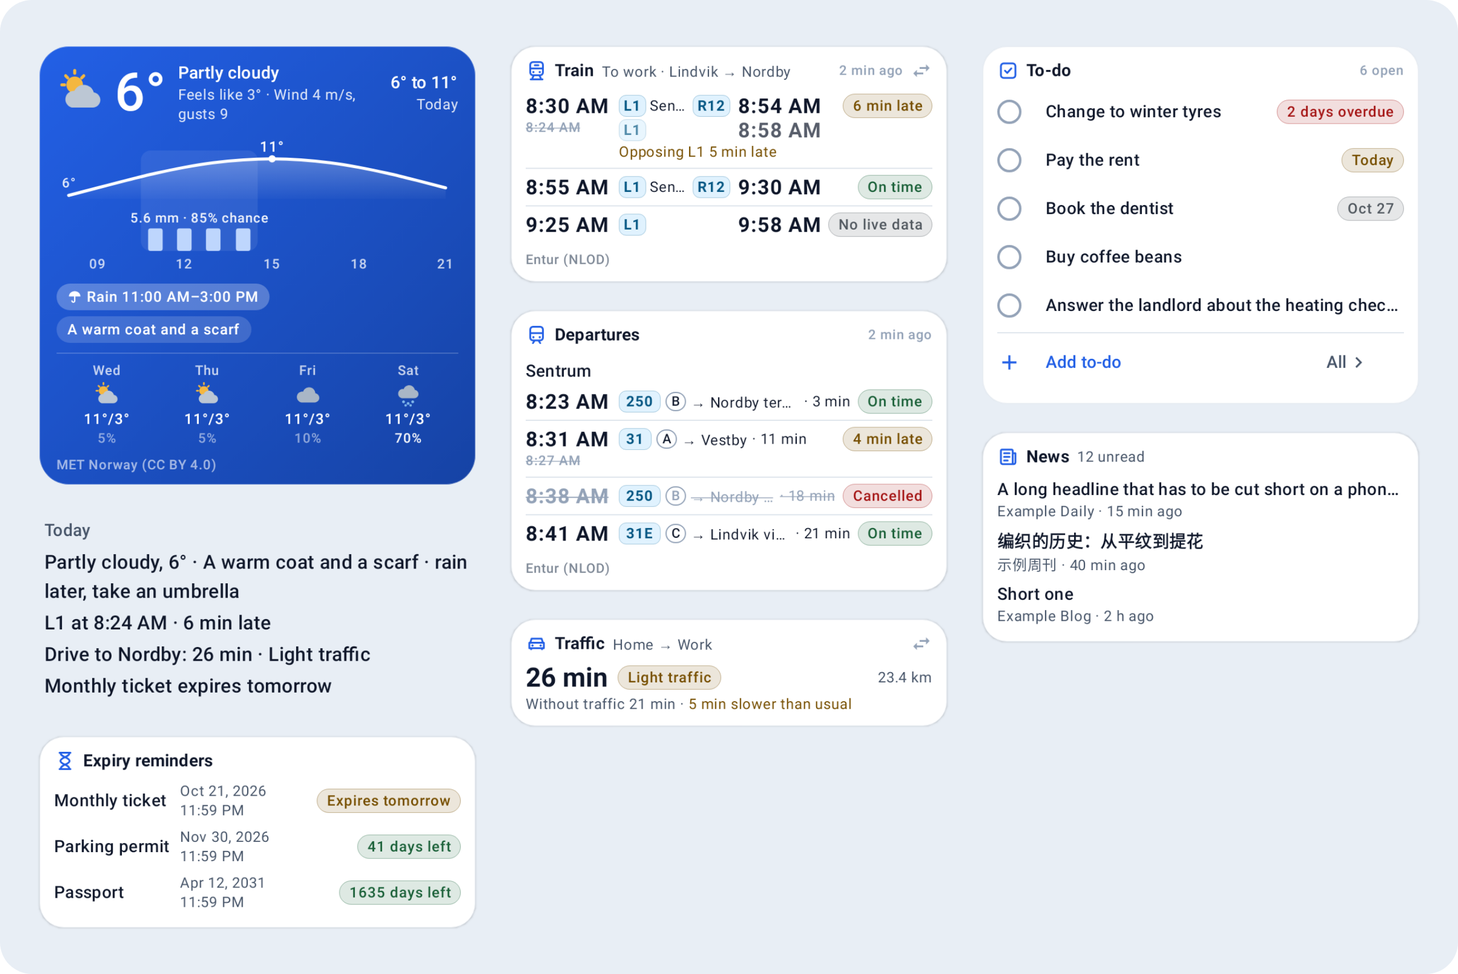
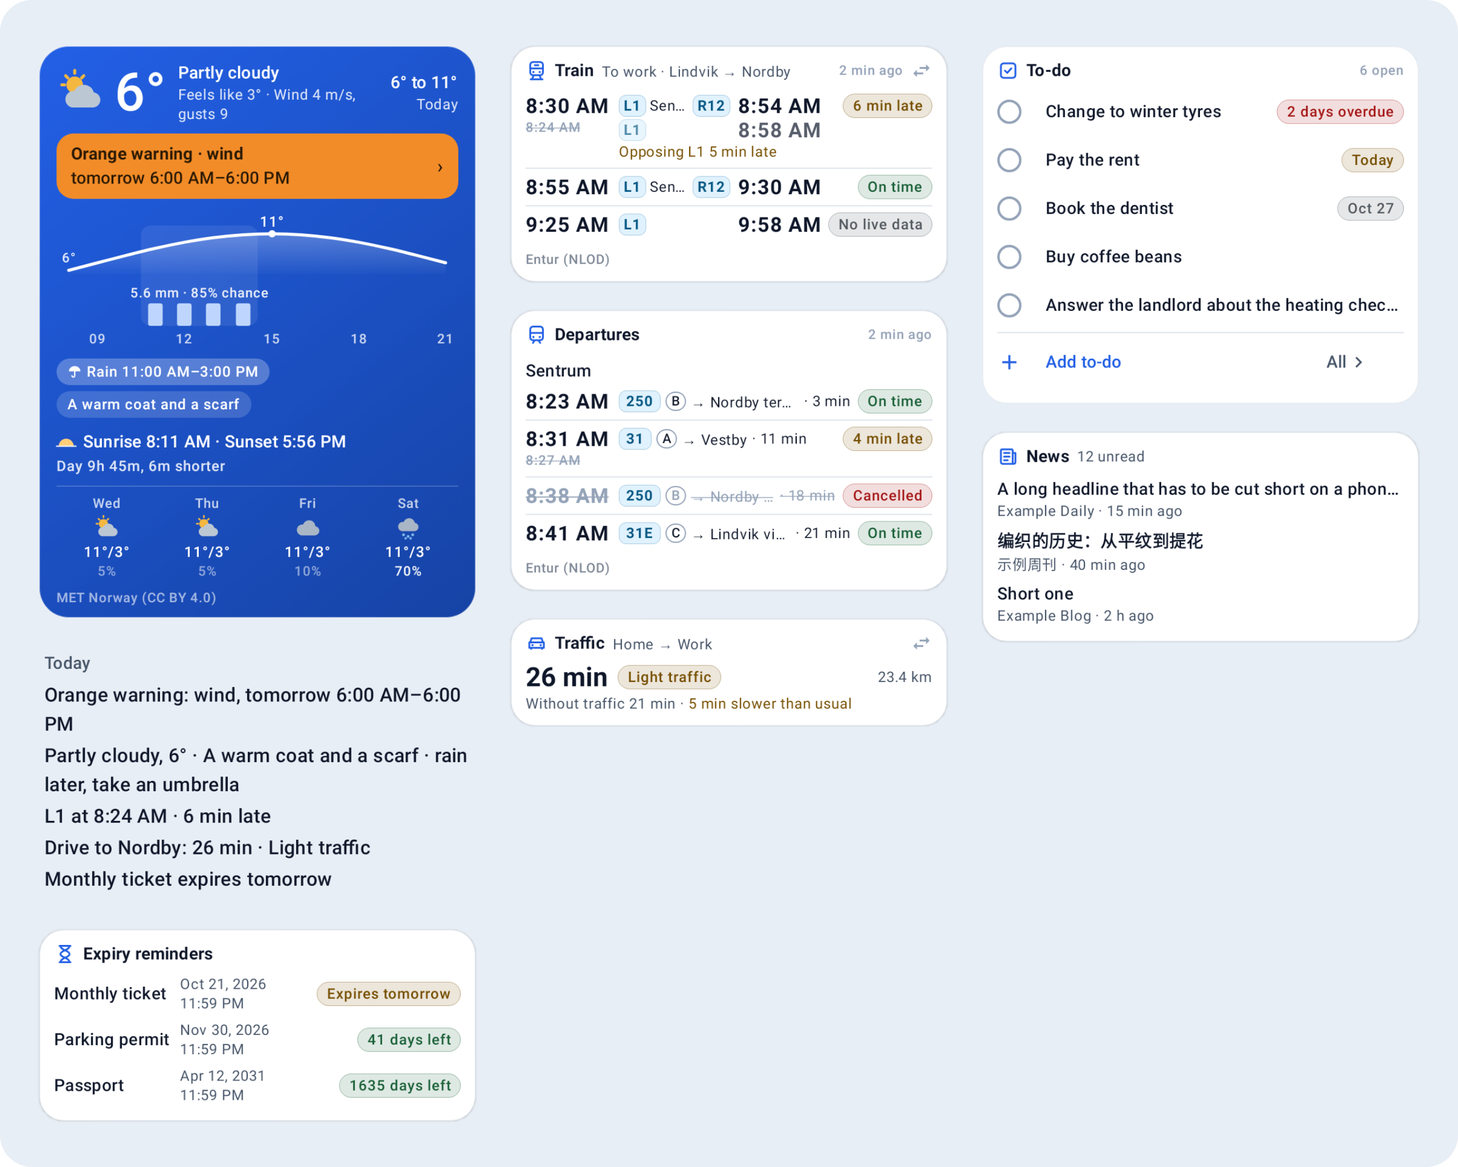
Address review on weather warnings
Warnings still show when the forecast is missing; skip MET test alerts instead of a Cancel type MET never sends;
rewrite the notification silently when some warnings end; explain under the switch that warnings cover Norway
only; expandable-state semantics on the warning bar; WarningRule test; design doc §11.1; README art regenerated.

处理天气预警的审阅意见

预报缺失时预警照样显示；跳过 MET 的测试预警，不再判断 MET 不会发送的 Cancel 类型；部分预警结束时静默改写通知内容；
开关下方说明预警只覆盖挪威；预警条加上可展开状态的无障碍语义；补 WarningRule 测试；更新设计文档 §11.1；重新生成 README 图片。

Claude-Session: https://claude.ai/code/session_01S6PaHwdUGGRifRozUYjAMk

diff --git a/app/src/main/java/io/github/lonemoonspace/dayloom/feature/weather/ui/WeatherCard.kt b/app/src/main/java/io/github/lonemoonspace/dayloom/feature/weather/ui/WeatherCard.kt
@@ -50,8 +50,11 @@ import androidx.compose.ui.graphics.drawscope.Stroke
 import androidx.compose.ui.graphics.lerp
 import androidx.compose.ui.res.painterResource
 import androidx.compose.ui.res.stringResource
+import androidx.compose.ui.semantics.Role
+import androidx.compose.ui.semantics.clearAndSetSemantics
 import androidx.compose.ui.semantics.contentDescription
 import androidx.compose.ui.semantics.semantics
+import androidx.compose.ui.semantics.stateDescription
 import androidx.compose.ui.text.drawText
 import androidx.compose.ui.text.font.FontWeight
 import androidx.compose.ui.text.rememberTextMeasurer
@@ -118,8 +121,15 @@ internal fun WeatherCard(
     val now = rememberMinuteTick()
     val forecast = snapshot?.value
     val current = forecast?.let { f -> WeatherPointPicker.pick(f.points, now) { Instant.ofEpochMilli(it.time).atZone(now.zone) } }
+    val active = remember(warnings, now) { WarningPolicy.active(warnings, now).take(MAX_WARNINGS) }
     if (snapshot == null || forecast == null || current == null) {
         InfoCard(title = stringResource(R.string.weather_title), icon = R.drawable.ic_wx_partly_day) {
+            // Warnings come from their own source: a forecast that failed or has not arrived yet must not hide them.
+            // 预警来自独立的来源：预报抓取失败或还没到，不能把预警一起藏掉。
+            active.forEach { warning ->
+                WarningBar(warning, now)
+                Spacer(Modifier.height(8.dp))
+            }
             if (error == null) SkeletonLines() else Text(error.userMessage().asString(), color = MaterialTheme.statusColors.red, style = MaterialTheme.typography.bodySmall)
         }
         return
@@ -143,7 +153,7 @@ internal fun WeatherCard(
                 .padding(start = 14.dp, end = 14.dp, top = 12.dp, bottom = 8.dp),
         ) {
             NowRow(current, outlook, stale = isStale(snapshot, now.toInstant()), placeLabel = placeLabel)
-            WarningPolicy.active(warnings, now).take(MAX_WARNINGS).forEach { warning ->
+            active.forEach { warning ->
                 Spacer(Modifier.height(8.dp))
                 WarningBar(warning, now)
             }
@@ -315,13 +325,22 @@ private fun WarningBar(warning: WeatherWarning, now: ZonedDateTime) {
     val details = listOf(warning.description, warning.instruction).filter { it.isNotBlank() }
     val title = WarningText.title(warning).asString()
     val span = WarningText.span(WarningPolicy.window(warning, now), now).asString()
+    val expandedState = stringResource(if (open) R.string.weather_warning_open else R.string.weather_warning_closed)
     CompositionLocalProvider(LocalContentColor provides content) {
         Column(
             Modifier
                 .fillMaxWidth()
                 .clip(RoundedCornerShape(WARNING_CORNER))
                 .background(background)
-                .then(if (details.isEmpty()) Modifier else Modifier.clickable(onClickLabel = stringResource(R.string.weather_warning_details)) { open = !open })
+                .then(
+                    if (details.isEmpty()) {
+                        Modifier
+                    } else {
+                        Modifier
+                            .clickable(role = Role.Button, onClickLabel = stringResource(R.string.weather_warning_details)) { open = !open }
+                            .semantics { stateDescription = expandedState }
+                    },
+                )
                 .padding(horizontal = 12.dp, vertical = 7.dp)
                 .animateContentSize(),
         ) {
@@ -331,10 +350,11 @@ private fun WarningBar(warning: WeatherWarning, now: ZonedDateTime) {
                     Text(span, style = MaterialTheme.typography.labelLarge, maxLines = 1)
                 }
                 if (details.isNotEmpty()) {
+                    // Decoration only: the bar's own state already says whether it is open. / 仅作装饰：预警条自身的状态已说明是否展开。
                     Text(
                         "›",
                         style = MaterialTheme.typography.titleMedium,
-                        modifier = Modifier.padding(start = 6.dp).rotate(if (open) 90f else 0f),
+                        modifier = Modifier.padding(start = 6.dp).rotate(if (open) 90f else 0f).clearAndSetSemantics {},
                     )
                 }
             }

diff --git a/app/src/test/java/io/github/lonemoonspace/dayloom/feature/weather/WarningRuleTest.kt b/app/src/test/java/io/github/lonemoonspace/dayloom/feature/weather/WarningRuleTest.kt
@@ -1,0 +1,72 @@
+package io.github.lonemoonspace.dayloom.feature.weather
+
+import io.github.lonemoonspace.dayloom.core.notify.RuleInput
+import io.github.lonemoonspace.dayloom.core.refresh.RefreshReport
+import io.github.lonemoonspace.dayloom.core.refresh.SourceId
+import io.github.lonemoonspace.dayloom.core.refresh.SourceResult
+import io.github.lonemoonspace.dayloom.feature.weather.domain.WarningRule
+import io.github.lonemoonspace.dayloom.feature.weather.domain.WeatherWarning
+import io.github.lonemoonspace.dayloom.feature.weather.domain.WeatherWarnings
+import java.time.ZoneId
+import java.time.ZonedDateTime
+import kotlinx.coroutines.runBlocking
+import org.junit.Assert.assertEquals
+import org.junit.Assert.assertFalse
+import org.junit.Assert.assertTrue
+import org.junit.Test
+
+class WarningRuleTest {
+
+    private val id = SourceId("weather.warnings")
+    private val start = ZonedDateTime.of(2026, 10, 20, 8, 0, 0, 0, ZoneId.of("Europe/Oslo"))
+    private var feed = WeatherWarnings()
+    private var refreshed = true
+
+    private val rule = WarningRule(
+        enabled = { true },
+        refreshed = { refreshed },
+        warnings = { feed },
+        channelId = "weather.warnings",
+        deepLink = "dayloom://weather",
+        notificationId = 1000,
+    )
+
+    private fun at(hours: Long) = start.plusHours(hours).toInstant().toEpochMilli()
+
+    private fun input(hours: Long) = RuleInput(RefreshReport(mapOf(id to SourceResult.Success(start.toInstant())), start.toInstant()), start.plusHours(hours))
+
+    private val wind = WeatherWarning(id = "w1", event = "wind", level = 3, start = at(2), end = at(12))
+    private val rain = WeatherWarning(id = "r1", event = "rain", level = 2, start = at(4), end = at(20))
+
+    @Test
+    fun `tells once, stays quiet for a reworded update, updates silently when one ends, cancels when all are over`() = runBlocking {
+        feed = WeatherWarnings(listOf(wind, rain))
+        val first = rule.evaluate(input(0), emptySet())
+        assertEquals(1, first.notifications.size)
+        assertFalse(first.notifications.single().alertOnce)
+
+        feed = WeatherWarnings(listOf(wind.copy(id = "w2", description = "Reworded."), rain))
+        val reworded = rule.evaluate(input(1), first.newState)
+        assertTrue(reworded.notifications.isEmpty())
+        assertTrue(reworded.cancel.isEmpty())
+
+        // Wind ends at +12 h; rain goes on. / 大风在 +12 小时结束，雨还在。
+        val oneEnded = rule.evaluate(input(13), reworded.newState)
+        assertEquals(1, oneEnded.notifications.size)
+        assertTrue(oneEnded.notifications.single().alertOnce)
+        assertEquals(1, oneEnded.newState.size)
+
+        val allOver = rule.evaluate(input(21), oneEnded.newState)
+        assertEquals(listOf(1000), allOver.cancel)
+        assertTrue(allOver.newState.isEmpty())
+    }
+
+    @Test
+    fun `does nothing when the warnings were not refreshed this round`() = runBlocking {
+        feed = WeatherWarnings(listOf(wind))
+        refreshed = false
+        val decision = rule.evaluate(input(0), emptySet())
+        assertTrue(decision.notifications.isEmpty())
+        assertEquals(emptySet<String>(), decision.newState)
+    }
+}

diff --git a/app/src/main/java/io/github/lonemoonspace/dayloom/feature/weather/domain/WarningRule.kt b/app/src/main/java/io/github/lonemoonspace/dayloom/feature/weather/domain/WarningRule.kt
@@ -38,18 +38,25 @@ class WarningRule(
         val snapshot = warnings() ?: return RuleDecision(previous)
         val (fresh, keys) = WarningPolicy.toNotify(snapshot.warnings, previous, input.now)
         if (fresh.isEmpty()) {
-            return RuleDecision(keys, cancel = if (keys.isEmpty() && previous.isNotEmpty()) listOf(notificationId) else emptyList())
+            return when {
+                keys == previous -> RuleDecision(keys)
+                keys.isEmpty() -> RuleDecision(keys, cancel = listOf(notificationId))
+                // A warning told about has ended while others go on: the shown text is rewritten without it, silently.
+                // 说过的某条预警已结束、其他仍在：把显示的内容改成不含它的版本，不响铃。
+                else -> RuleDecision(keys, listOf(notification(WarningPolicy.active(snapshot.warnings, input.now), input, alertOnce = true)))
+            }
         }
-        val notification = AppNotification(
-            id = notificationId,
-            channelId = channelId,
-            title = if (fresh.size == 1) WarningText.title(fresh.first()) else UiText.Res(R.string.weather_warning_notify_title),
-            body = fresh.singleOrNull()?.let { WarningText.span(WarningPolicy.window(it, input.now), input.now) }
-                ?: UiText.Lines(fresh.map { WarningText.line(it, input.now) }),
-            deepLink = deepLink,
-            // A new warning is news even while an older one is still in the shade. / 即使旧预警还在通知栏，新预警也是新消息。
-            alertOnce = false,
-        )
-        return RuleDecision(keys, listOf(notification))
+        // A new warning is news even while an older one is still in the shade. / 即使旧预警还在通知栏，新预警也是新消息。
+        return RuleDecision(keys, listOf(notification(fresh, input, alertOnce = false)))
     }
+
+    private fun notification(warnings: List<WeatherWarning>, input: RuleInput, alertOnce: Boolean) = AppNotification(
+        id = notificationId,
+        channelId = channelId,
+        title = if (warnings.size == 1) WarningText.title(warnings.first()) else UiText.Res(R.string.weather_warning_notify_title),
+        body = warnings.singleOrNull()?.let { WarningText.span(WarningPolicy.window(it, input.now), input.now) }
+            ?: UiText.Lines(warnings.map { WarningText.line(it, input.now) }),
+        deepLink = deepLink,
+        alertOnce = alertOnce,
+    )
 }

diff --git a/app/src/main/java/io/github/lonemoonspace/dayloom/feature/weather/data/MetAlertsApi.kt b/app/src/main/java/io/github/lonemoonspace/dayloom/feature/weather/data/MetAlertsApi.kt
@@ -47,15 +47,15 @@ class MetAlertsApi(
         const val SERVICE = "MET Norway"
 
         /**
-         * Land warnings only: a point on the coast also lies in sea areas, whose gale warnings are for boats. Cancellations
-         * and warnings without a readable time are dropped.
-         * 只要陆地预警：海边的点也落在海区里，那里的大风预警是给船的。撤销通知与时间读不出的预警丢弃。
+         * Land warnings only: a point on the coast also lies in sea areas, whose gale warnings are for boats. MET's test
+         * alerts and warnings without a readable time are dropped. A withdrawn warning simply leaves the feed.
+         * 只要陆地预警：海边的点也落在海区里，那里的大风预警是给船的。MET 的测试预警与时间读不出的预警丢弃。撤回的预警直接从列表里消失。
          */
         internal fun parse(dto: AlertsResponse): WeatherWarnings = WeatherWarnings(
             dto.features.mapNotNull { feature ->
                 val p = feature.properties
                 if (p.geographicDomain.equals("marine", ignoreCase = true)) return@mapNotNull null
-                if (p.type.equals("Cancel", ignoreCase = true)) return@mapNotNull null
+                if (p.status.equals("Test", ignoreCase = true)) return@mapNotNull null
                 val start = feature.time.interval.getOrNull(0)?.let(::epochMillis) ?: return@mapNotNull null
                 val end = feature.time.interval.getOrNull(1)?.let(::epochMillis) ?: return@mapNotNull null
                 WeatherWarning(
@@ -90,7 +90,8 @@ internal data class AlertsResponse(val features: List<Feature> = emptyList()) {
     data class Properties(
         val id: String = "",
         val event: String = "",
-        val type: String = "",
+        /** `Actual` or `Test`. / `Actual` 或 `Test`。 */
+        val status: String = "",
         @SerialName("awareness_level") val awarenessLevel: String = "",
         val geographicDomain: String = "",
         val description: String = "",

diff --git a/app/src/test/java/io/github/lonemoonspace/dayloom/feature/weather/MetAlertsApiTest.kt b/app/src/test/java/io/github/lonemoonspace/dayloom/feature/weather/MetAlertsApiTest.kt
@@ -31,9 +31,9 @@ class MetAlertsApiTest {
 
     private fun api() = MetAlertsApi(OkHttpClient(), baseUrl = server.url("/weatherapi/metalerts/2.0/current.json"))
 
-    private fun feature(id: String, event: String, level: String, domain: String, type: String = "Alert", start: String = "2026-10-21T04:00:00+00:00") = """
+    private fun feature(id: String, event: String, level: String, domain: String, status: String = "Actual", start: String = "2026-10-21T04:00:00+00:00") = """
         {"type":"Feature","geometry":{"type":"Polygon","coordinates":[[[10.0,59.0],[11.0,59.0],[11.0,60.0],[10.0,59.0]]]},
-         "properties":{"id":"$id","event":"$event","type":"$type","awareness_level":"$level","awareness_type":"1; Wind",
+         "properties":{"id":"$id","event":"$event","status":"$status","awareness_level":"$level","awareness_type":"1; Wind",
            "geographicDomain":"$domain","county":["03"],"description":" Strong gusts. ","instruction":"Secure loose objects.",
            "riskMatrixColor":"Orange","title":"Wind"},
          "when":{"interval":["$start","2026-10-21T16:00:00+00:00"]}}
@@ -44,7 +44,7 @@ class MetAlertsApiTest {
         val body = """{"type":"FeatureCollection","lang":"en","lastChange":"2026-10-20T06:00:00+00:00","features":[
             ${feature("land", "wind", "3; orange; Severe", "land")},
             ${feature("sea", "gale", "2; yellow; Moderate", "marine")},
-            ${feature("gone", "rain", "2; yellow; Moderate", "land", type = "Cancel")},
+            ${feature("drill", "rain", "2; yellow; Moderate", "land", status = "Test")},
             ${feature("odd", "snow", "2; yellow; Moderate", "land", start = "soon")}
         ]}"""
         server.enqueue(MockResponse().setBody(body))

diff --git a/app/src/main/java/io/github/lonemoonspace/dayloom/feature/weather/data/WarningsSource.kt b/app/src/main/java/io/github/lonemoonspace/dayloom/feature/weather/data/WarningsSource.kt
@@ -50,11 +50,14 @@ class WarningsSource(
             if (place == null) return SourceInput.Missing(uiText(R.string.weather_setup_place))
             // An unknown country (older saved places) is asked about: abroad, MET simply answers with nothing.
             // 国家未知（较早保存的地点）时照样查询：在国外，MET 只会返回空。
-            if (place.countryCode.isNotEmpty() && !place.countryCode.equals("NO", ignoreCase = true)) {
+            if (outsideNorway(place)) {
                 return SourceInput.Missing(uiText(R.string.weather_warnings_norway_only))
             }
             val key = PlacesPolicy.formatCoordinate(place.lat) + "," + PlacesPolicy.formatCoordinate(place.lon)
             return SourceInput.Ready(WeatherParams(place.lat, place.lon), key = key)
         }
+
+        /** Known to be abroad; an unknown country counts as Norway. / 已知在国外；国家未知时按挪威算。 */
+        fun outsideNorway(place: Place): Boolean = place.countryCode.isNotEmpty() && !place.countryCode.equals("NO", ignoreCase = true)
     }
 }

diff --git a/app/src/main/java/io/github/lonemoonspace/dayloom/feature/weather/WeatherModule.kt b/app/src/main/java/io/github/lonemoonspace/dayloom/feature/weather/WeatherModule.kt
@@ -140,6 +140,15 @@ private class WeatherInstance(private val ctx: ModuleContext) : ModuleInstance {
             checked = saved.notifyWarnings,
             channelId = ctx.channelId(channel.name),
         ) { on -> ctx.appScope.launch { store.update { it.copy(notifyWarnings = on) } } }
+        val shown by place.collectAsStateWithLifecycle(initialValue = null)
+        // Said here because the card simply shows no warnings abroad. / 在这里说明，因为在国外时卡片只是不显示预警。
+        if (shown?.let(WarningsSource::outsideNorway) == true) {
+            Text(
+                text = stringResource(R.string.weather_warnings_norway_only),
+                style = MaterialTheme.typography.bodySmall,
+                color = MaterialTheme.colorScheme.onSurfaceVariant,
+            )
+        }
     }
 
     override val notificationChannels = listOf(channel)

diff --git a/docs/design.en.md b/docs/design.en.md
@@ -320,10 +320,11 @@ Module settings refer to these shared items — weather defaults to "Home", traf
 
 ### 11.1 Weather `weather`
 
-- **Features**: the weather at Home now (feels-like, wind and gusts), then the day: until 18:00 today, from 18:00 tomorrow (`DayOutlookPolicy`, daytime hours 06:00–22:00): low/high and feels-like, an hourly temperature curve (high and low marked) with rain bars underneath (rain spells shaded and labelled with amount and chance, the hour marked every three hours), what to wear (from the lowest feels-like temperature) and tips (umbrella, heavy rain, thunder, snow, icy roads, strong wind, heat, sunscreen, layers); then a four-day strip.
-- **Data source**: MET Norway Locationforecast 2.0 `complete` (worldwide; `complete` for feels-like, gusts, UV and rain probability).
-- **Settings**: the place, picked from the saved places, Home by default; the card names the place when it is not Home.
-- **Sources**: `weather.forecast`.
+- **Features**: the weather at Home now (feels-like, wind and gusts), then the day: until 18:00 today, from 18:00 tomorrow (`DayOutlookPolicy`, daytime hours 06:00–22:00): low/high and feels-like, an hourly temperature curve (high and low marked) with rain bars underneath (rain spells shaded and labelled with amount and chance, the hour marked every three hours), what to wear (from the lowest feels-like temperature) and tips (umbrella, heavy rain, thunder, snow, icy roads, strong wind, heat, sunscreen, layers); a daylight row (sunrise, sunset, day length and the change since yesterday; in polar night or midnight sun, when the sun returns or first sets; worked out on the phone by `SunPolicy` with NOAA's equations, no network); then a four-day strip. For places in Norway, MET Norway's land warnings show at the top of the card (at most two, in MET's yellow/orange/red, with type and time; tap one for MET's English text; `WarningPolicy`), and lead the Today summary and the morning brief.
+- **Data source**: MET Norway Locationforecast 2.0 `complete` (worldwide; `complete` for feels-like, gusts, UV and rain probability); MET Norway MetAlerts 2.0 `current.json?lat&lon&lang=en` (Norway only; land warnings only, test alerts skipped).
+- **Settings**: the place, picked from the saved places, Home by default; the card names the place when it is not Home. A warning notification switch (off by default); when the place is abroad, a note under it says warnings cover Norway only.
+- **Sources**: `weather.forecast`; `weather.warnings` (not queried for places abroad).
+- **Notifications**: channel `weather.warnings`, id 1000: each new warning once (deduplicated by event, level and start, so a reworded update stays quiet and a raised level notifies again); when some warnings told about end the text is updated silently, and when all are over it is taken down.
 - **Ported**: `MetApi`, `WeatherPointPicker`, `DailyForecastBuilder`, weather icons (the original project's own `ic_wx_*` vector drawables).
 - **Note**: MET requires contact information in the User-Agent; it becomes `Dayloom/<version> (+https://github.com/lonemoonspace/dayloom)`. The UI must credit the data source (CC BY 4.0).
 

diff --git a/docs/design.md b/docs/design.md
@@ -319,10 +319,11 @@ val allModules: List<FeatureModule> = listOf(
 
 ### 11.1 天气 `weather`
 
-- **功能**：家所在地现在的天气（体感、风与阵风），然后是这一天：18:00 前是今天，18:00 起是明天（`DayOutlookPolicy`，白天时段 06:00–22:00）：最低/最高与体感温度、逐小时的温度曲线（标出最高与最低）及其下方的雨量柱（降雨时段加底色并标注雨量与概率，每三小时标一个钟点）、穿衣建议（按最低体感温度）与温馨提示（带伞、大雨、雷暴、雨雪、路滑、大风、炎热、防晒、温差）；最后是四天预报横排。
-- **数据源**：MET Norway Locationforecast 2.0 `complete`（全球；用 `complete` 是为了体感温度、阵风、紫外线与降水概率）。
-- **设置**：天气地点，从已保存的地点里选，默认是家；选的不是家时卡片上标出地点名。
-- **来源**：`weather.forecast`。
+- **功能**：家所在地现在的天气（体感、风与阵风），然后是这一天：18:00 前是今天，18:00 起是明天（`DayOutlookPolicy`，白天时段 06:00–22:00）：最低/最高与体感温度、逐小时的温度曲线（标出最高与最低）及其下方的雨量柱（降雨时段加底色并标注雨量与概率，每三小时标一个钟点）、穿衣建议（按最低体感温度）与温馨提示（带伞、大雨、雷暴、雨雪、路滑、大风、炎热、防晒、温差）；日照一行（日出、日落、白天时长及比昨天长短多少，极夜/极昼时写明太阳哪天回来或开始落下；`SunPolicy` 在手机上按 NOAA 公式计算，不联网）；最后是四天预报横排。挪威境内的地点在卡片顶部显示挪威气象局的陆地预警（最多两条，MET 的黄/橙/红配色，写明类型与时间，点开看 MET 的英文原文；`WarningPolicy`），预警也排在「今天」摘要与早间简报的第一行。
+- **数据源**：MET Norway Locationforecast 2.0 `complete`（全球；用 `complete` 是为了体感温度、阵风、紫外线与降水概率）；MET Norway MetAlerts 2.0 `current.json?lat&lon&lang=en`（只覆盖挪威；只取陆地预警，跳过测试预警）。
+- **设置**：天气地点，从已保存的地点里选，默认是家；选的不是家时卡片上标出地点名。预警通知开关（默认关闭）；地点在国外时开关下方说明预警只覆盖挪威。
+- **来源**：`weather.forecast`；`weather.warnings`（国外地点不查询）。
+- **通知**：渠道 `weather.warnings`，id 1000：新预警通知一次（按事件、级别、开始时间去重，改措辞不再通知、级别升高再通知）；说过的预警部分结束时静默更新内容，全部结束时撤下。
 - **移植**：`MetApi`、`WeatherPointPicker`、`DailyForecastBuilder`、天气图标（原项目自绘的 `ic_wx_*` 矢量图）。
 - **注意**：MET 要求 User-Agent 带联系方式，改为 `Dayloom/<版本> (+https://github.com/lonemoonspace/dayloom)`；界面需注明数据来源（CC BY 4.0）。
 
